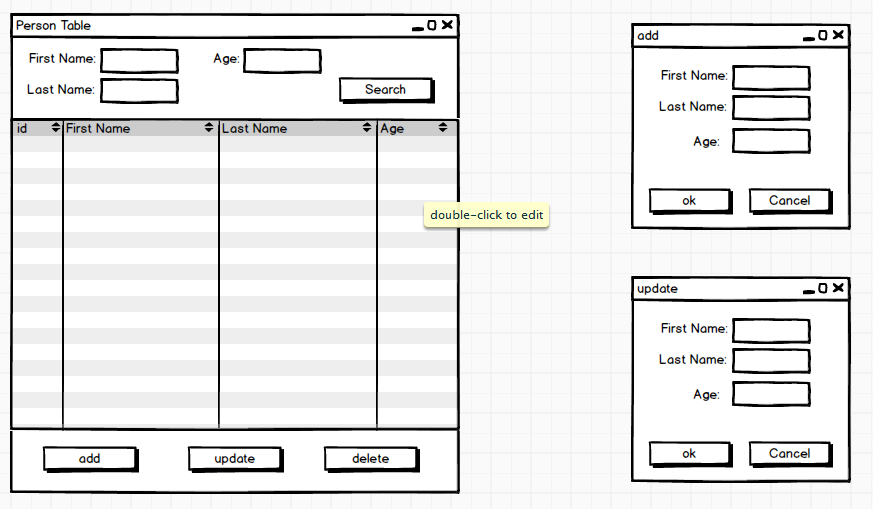
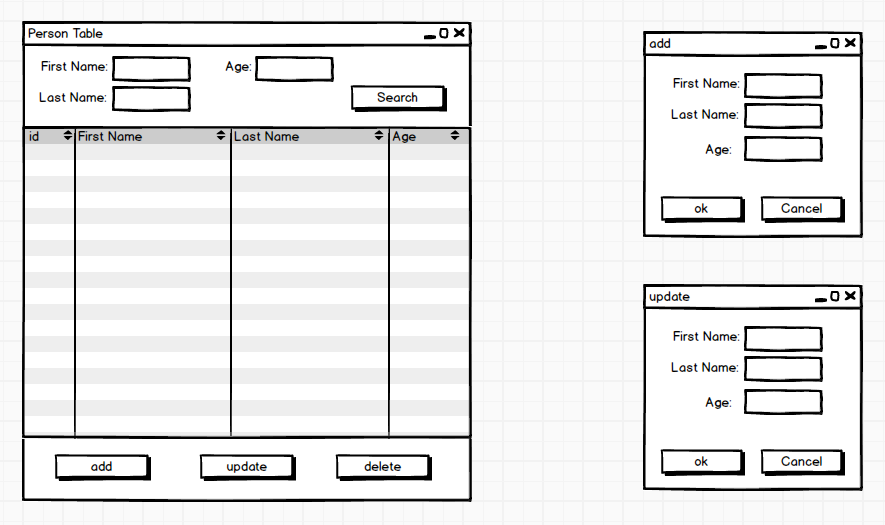
Created Panel Buttons

diff --git a/PersonAndManyDB/src/db/PanelSearch.java b/PersonAndManyDB/src/db/PanelSearch.java
@@ -1,0 +1,49 @@
+package db;
+
+import java.awt.GridLayout;
+
+import javax.swing.JButton;
+import javax.swing.JLabel;
+import javax.swing.JPanel;
+import javax.swing.JTextField;
+import javax.swing.SwingConstants;
+
+public class PanelSearch extends JPanel{
+	
+	public PanelSearch() {
+		GridLayout gridLayout = new GridLayout(2, 5);
+		gridLayout.setHgap(5);
+		gridLayout.setVgap(5);
+		setLayout(gridLayout);
+		
+		JLabel lblFirstName = new JLabel("First Name:");
+		JLabel lblLastName = new JLabel("Last Name:");
+		JLabel lblAge = new JLabel("Age:");
+		
+		lblFirstName.setHorizontalAlignment(SwingConstants.CENTER);
+		lblLastName.setHorizontalAlignment(SwingConstants.CENTER);
+		lblAge.setHorizontalAlignment(SwingConstants.CENTER);
+		
+		JLabel lblEmpty1 = new JLabel();
+		JLabel lblEmpty2 = new JLabel();
+		JLabel lblEmpty3 = new JLabel();
+		
+		JButton btnSearch = new JButton("Search");
+		
+		JTextField txtFirstName = new JTextField("");
+		JTextField txtLastName = new JTextField("");
+		JTextField txtAge = new JTextField("");
+		
+		add(lblFirstName);
+		add(txtFirstName);
+		add(lblAge);
+		add(txtAge);
+		add(lblEmpty1);
+		add(lblLastName);
+		add(txtLastName);
+		add(lblEmpty2);
+		add(lblEmpty3);
+		add(btnSearch);
+	}
+
+}

diff --git a/PersonAndManyDB/src/db/BasicFrame.java b/PersonAndManyDB/src/db/BasicFrame.java
@@ -1,0 +1,24 @@
+package db;
+
+
+
+import java.awt.BorderLayout;
+
+import javax.swing.JFrame;
+
+
+public class BasicFrame extends JFrame
+{
+	public BasicFrame()
+	{
+		setBounds(320, 200, 600, 450);
+		
+		
+		//add(new PanelTable());
+		add(new PanelSearch(),BorderLayout.NORTH);
+		
+		setDefaultCloseOperation(EXIT_ON_CLOSE);
+		setVisible(true);
+	}
+
+}

diff --git a/PersonAndManyDB/src/db/MainTable.java b/PersonAndManyDB/src/db/MainTable.java
@@ -1,0 +1,12 @@
+package db;
+
+
+public class MainTable {
+	
+	public static void main(String[] args)
+	{
+		new BasicFrame();
+
+	}
+
+}

diff --git a/PersonAndManyDB/src/db/PanelButtons.java b/PersonAndManyDB/src/db/PanelButtons.java
@@ -1,0 +1,7 @@
+package db;
+
+import javax.swing.JPanel;
+
+public class PanelButtons extends JPanel {
+
+}
